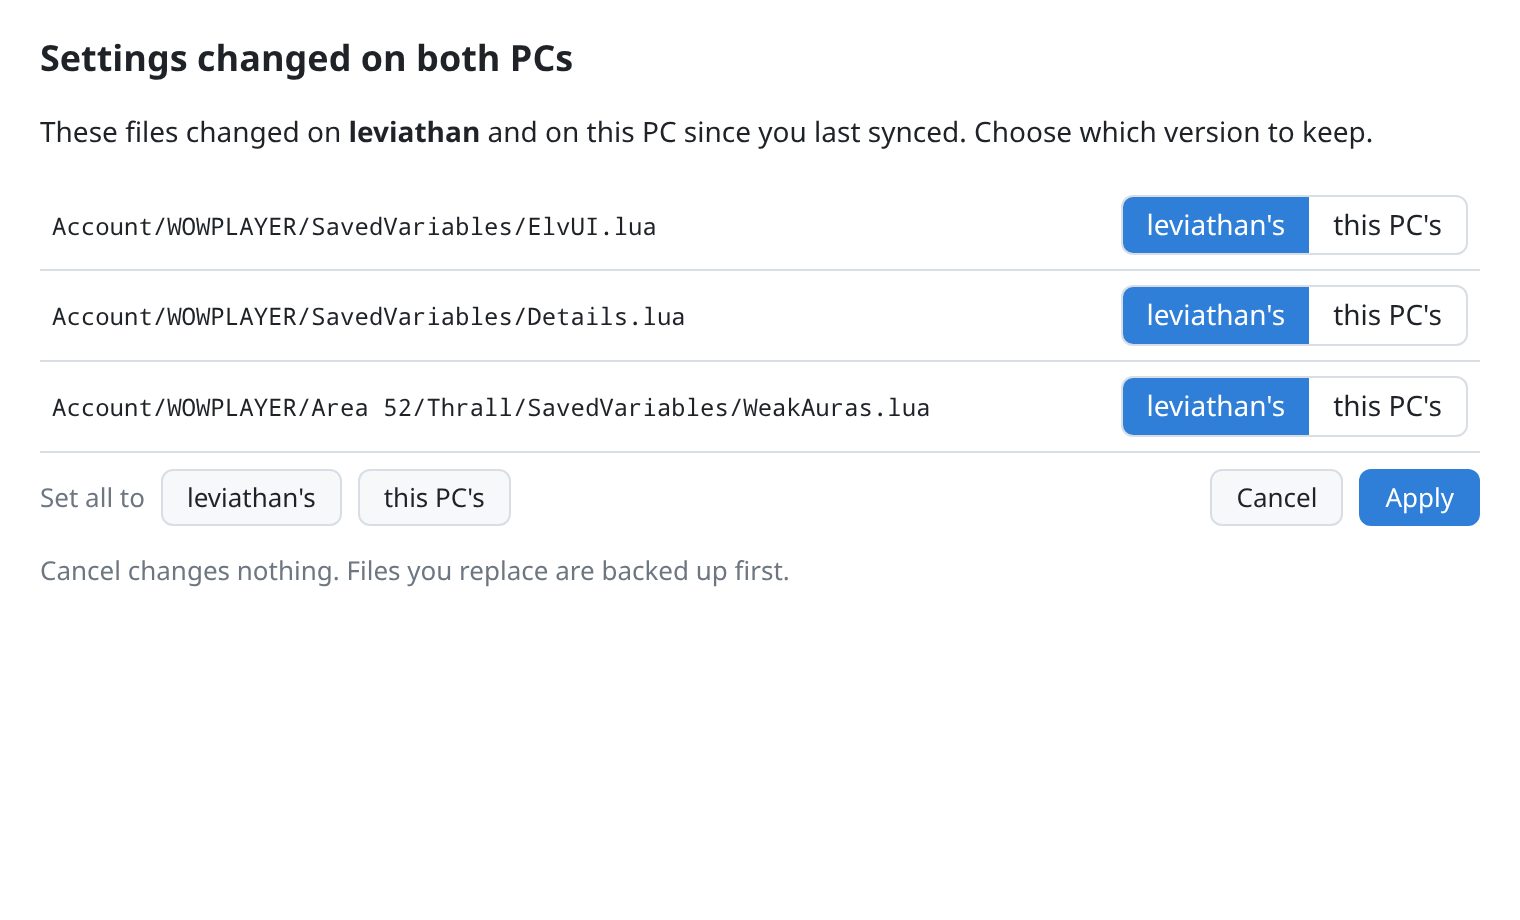
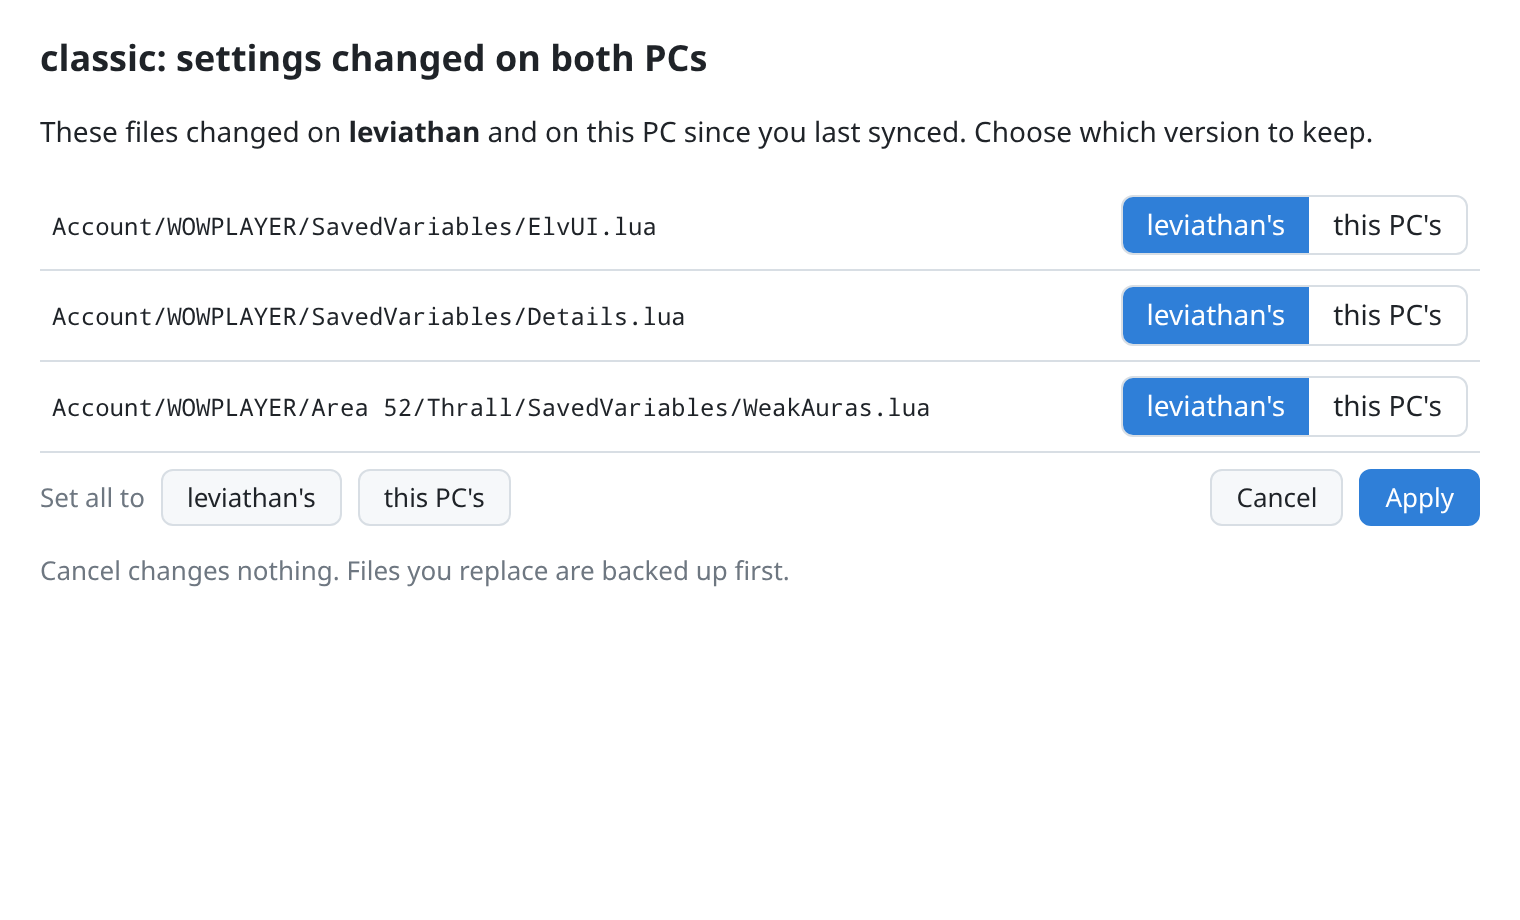
fix: offer Join in the wizard whenever the cloud folder has wtfsync data
The wizard decided from the other PCs' records it could read, so a streaming drive that hadn't
downloaded them yet hid Join and setup then failed asking for it.

Changed region(s): [[0.0309, 0.0304, 0.4638, 0.0913]]

diff --git a/internal/ui/web/wizard.js b/internal/ui/web/wizard.js
@@ -9,13 +9,19 @@ export async function wizard(root, { start = 0, done, cancel }) {
   const wow = folderPicker(d.Installs, d.WoWDir, "Your World of Warcraft folder");
   const cloud = folderPicker(d.Clouds, d.Sync, "A folder your cloud client syncs");
   const name = h("input", { type: "text", value: d.Name });
-  let pcs = [];          // PCs already in the chosen cloud folder
+  let hasData = false;   // the chosen cloud folder already has wtfsync data
+  let pcs = [];          // the other PCs in it whose records could be read (may be empty)
   let first = true;      // "This is my first PC"
   let step = Math.min(start, 3);
   let error = "";
   let result = null;     // lines from Setup, on the last step
 
-  const lookUp = async () => { pcs = await call("CloudPCs", cloud.value()); first = pcs.length === 0; };
+  const lookUp = async () => {
+    const c = await call("CloudFolder", cloud.value());
+    hasData = c.HasData;
+    pcs = c.PCs;
+    first = !hasData;
+  };
   if (step >= 3) await lookUp();
 
   async function next() {
@@ -52,11 +58,14 @@ export async function wizard(root, { start = 0, done, cancel }) {
         h("p", { class: "muted" }, "A folder Google Drive, OneDrive, Dropbox or iCloud keeps in sync on all your PCs."), cloud.el];
       case 2: return [h("h1", {}, "What should this PC be called?"),
         h("p", { class: "muted" }, "Your other PCs show this name."), name];
-      case 3: return pcs.length
+      case 3: return hasData
         ? [h("h1", {}, "Is this your first PC with wtfsync?"),
-          h("p", { class: "muted" }, "This cloud folder already has settings from ", h("b", {}, pcs.join(", ")), "."),
+          pcs.length
+            ? h("p", { class: "muted" }, "This cloud folder already has settings from ", h("b", {}, pcs.join(", ")), ".")
+            : h("p", { class: "muted" }, "This cloud folder already has wtfsync settings from another PC."),
           choice(true, "This is my first PC", "Start a new sync with this PC's settings."),
-          choice(false, "Join " + pcs.join(", "), "Get their settings. If both PCs changed the same file, you'll choose which to keep.")]
+          choice(false, pcs.length ? "Join " + pcs.join(", ") : "Join my other PC",
+            "Get their settings. If both PCs changed the same file, you'll choose which to keep.")]
         : [h("h1", {}, "Start syncing from this PC"),
           h("p", { class: "muted" }, "This cloud folder has no wtfsync data yet, so this PC starts it. Set up your other PCs afterwards and choose to join this one.")];
       default: return result

diff --git a/internal/ui/web/demo.js b/internal/ui/web/demo.js
@@ -31,7 +31,7 @@ const answers = {
     Flavors: [{ Name: "classic", On: true }, { Name: "classic_beta", On: true }, { Name: "classic_era", On: false }, { Name: "retail", On: true }] }),
   Defaults: () => ({ Installs: ["C:\\Program Files (x86)\\World of Warcraft"], Clouds: ["G:\\My Drive\\wtfsync"],
     WoWDir: "C:\\Program Files (x86)\\World of Warcraft", Sync: "G:\\My Drive\\wtfsync", Name: "beehive", Rerun: false }),
-  CloudPCs: () => ["leviathan"],
+  CloudFolder: () => ({ HasData: true, PCs: ["leviathan"] }),
   Conflicts: () => ({ ID: 1, Flavor: "classic", Other: "leviathan", FirstLink: false, Files: [
     "Account/WOWPLAYER/SavedVariables/ElvUI.lua",
     "Account/WOWPLAYER/SavedVariables/Details.lua",

diff --git a/internal/app/app_test.go b/internal/app/app_test.go
@@ -476,16 +476,29 @@ func TestSetAppearance(t *testing.T) {
 	}
 }
 
-func TestCloudPCsNamesTheOtherPCs(t *testing.T) {
+func TestCloudFolderNamesTheOtherPCs(t *testing.T) {
 	nj, _, njApp, nyApp := linked(t)
-	if got := nyApp.CloudPCs(nj.sync); !reflect.DeepEqual(got, []string{"NJ"}) {
-		t.Fatalf("from NY: %v", got)
+	if got := nyApp.CloudFolder(nj.sync); !got.HasData || !reflect.DeepEqual(got.PCs, []string{"NJ"}) {
+		t.Fatalf("from NY: %+v", got)
 	}
-	if got := njApp.CloudPCs(nj.sync); !reflect.DeepEqual(got, []string{"NY"}) {
-		t.Fatalf("from NJ: %v", got)
+	if got := njApp.CloudFolder(nj.sync); !reflect.DeepEqual(got.PCs, []string{"NY"}) {
+		t.Fatalf("from NJ: %+v", got)
 	}
-	if got := nyApp.CloudPCs(t.TempDir()); got == nil || len(got) != 0 {
+	if got := nyApp.CloudFolder(t.TempDir()); got.HasData || got.PCs == nil || len(got.PCs) != 0 {
 		t.Fatalf("empty folder: %#v", got)
+	}
+}
+
+func TestCloudFolderWithDataButNoReadablePCStillHasData(t *testing.T) {
+	nj, _, _, nyApp := linked(t)
+	// e.g. a streaming cloud drive that hasn't downloaded NJ's record yet
+	machines := filepath.Join(nj.sync, "wtfsync", "machines")
+	entries, _ := os.ReadDir(machines)
+	for _, e := range entries {
+		os.WriteFile(filepath.Join(machines, e.Name()), []byte("not json"), 0o644)
+	}
+	if got := nyApp.CloudFolder(nj.sync); !got.HasData || len(got.PCs) != 0 {
+		t.Fatalf("got %+v; want data and no names: the wizard must still offer Join", got)
 	}
 }
 

diff --git a/internal/app/app.go b/internal/app/app.go
@@ -592,20 +592,28 @@ func (a *App) SetAppearance(v string) error {
 	return nil
 }
 
-// CloudPCs names the PCs whose wtfsync data is in folder, other than this one; empty when the folder
-// has none (or can't be read). The wizard uses it to offer "Join <PC>".
-func (a *App) CloudPCs(folder string) []string {
-	names := []string{}
+// CloudFolder is what the wizard needs to know about a cloud folder.
+type CloudFolder struct {
+	HasData bool     // the folder has wtfsync data: this PC joins it unless it's a rerun of the first PC
+	PCs     []string // the other PCs whose records could be read; may be empty even with data
+}
+
+// CloudFolder says whether folder has wtfsync data and names the PCs in it other than this one.
+// Whether to offer "Join" comes from HasData, not PCs: a streaming drive may not have downloaded
+// the other PC's record yet.
+func (a *App) CloudFolder(folder string) CloudFolder {
+	c := CloudFolder{PCs: []string{}}
 	d, err := syncdir.Open(folder, a.d.Hydrator)
 	if err != nil {
-		return names
+		return c
 	}
+	c.HasData = true
 	me, _ := a.d.Store.LoadSettings()
 	machines, _ := d.Machines()
 	for _, m := range machines {
 		if m.UUID != me.MachineUUID {
-			names = append(names, m.Name)
+			c.PCs = append(c.PCs, m.Name)
 		}
 	}
-	return names
+	return c
 }

diff --git a/internal/ui/bridge_windows.go b/internal/ui/bridge_windows.go
@@ -102,11 +102,11 @@ func (b *Bridge) Restore(flavor, id string) (string, error) {
 	return r.Undo, err
 }
 
-func (b *Bridge) SetAppearance(v string) error    { return b.u.app.SetAppearance(v) }
-func (b *Bridge) CheckUpdate() error              { return b.u.app.CheckUpdate(context.Background()) }
-func (b *Bridge) InstallUpdate()                  { go b.u.installUpdate() }
-func (b *Bridge) OpenLogFolder()                  { b.u.openLogFolder() }
-func (b *Bridge) CloudPCs(folder string) []string { return list(b.u.app.CloudPCs(folder)) }
+func (b *Bridge) SetAppearance(v string) error              { return b.u.app.SetAppearance(v) }
+func (b *Bridge) CheckUpdate() error                        { return b.u.app.CheckUpdate(context.Background()) }
+func (b *Bridge) InstallUpdate()                            { go b.u.installUpdate() }
+func (b *Bridge) OpenLogFolder()                            { b.u.openLogFolder() }
+func (b *Bridge) CloudFolder(folder string) app.CloudFolder { return b.u.app.CloudFolder(folder) }
 
 // OpenURL opens an addon's download page; only https links are followed.
 func (b *Bridge) OpenURL(url string) error {
